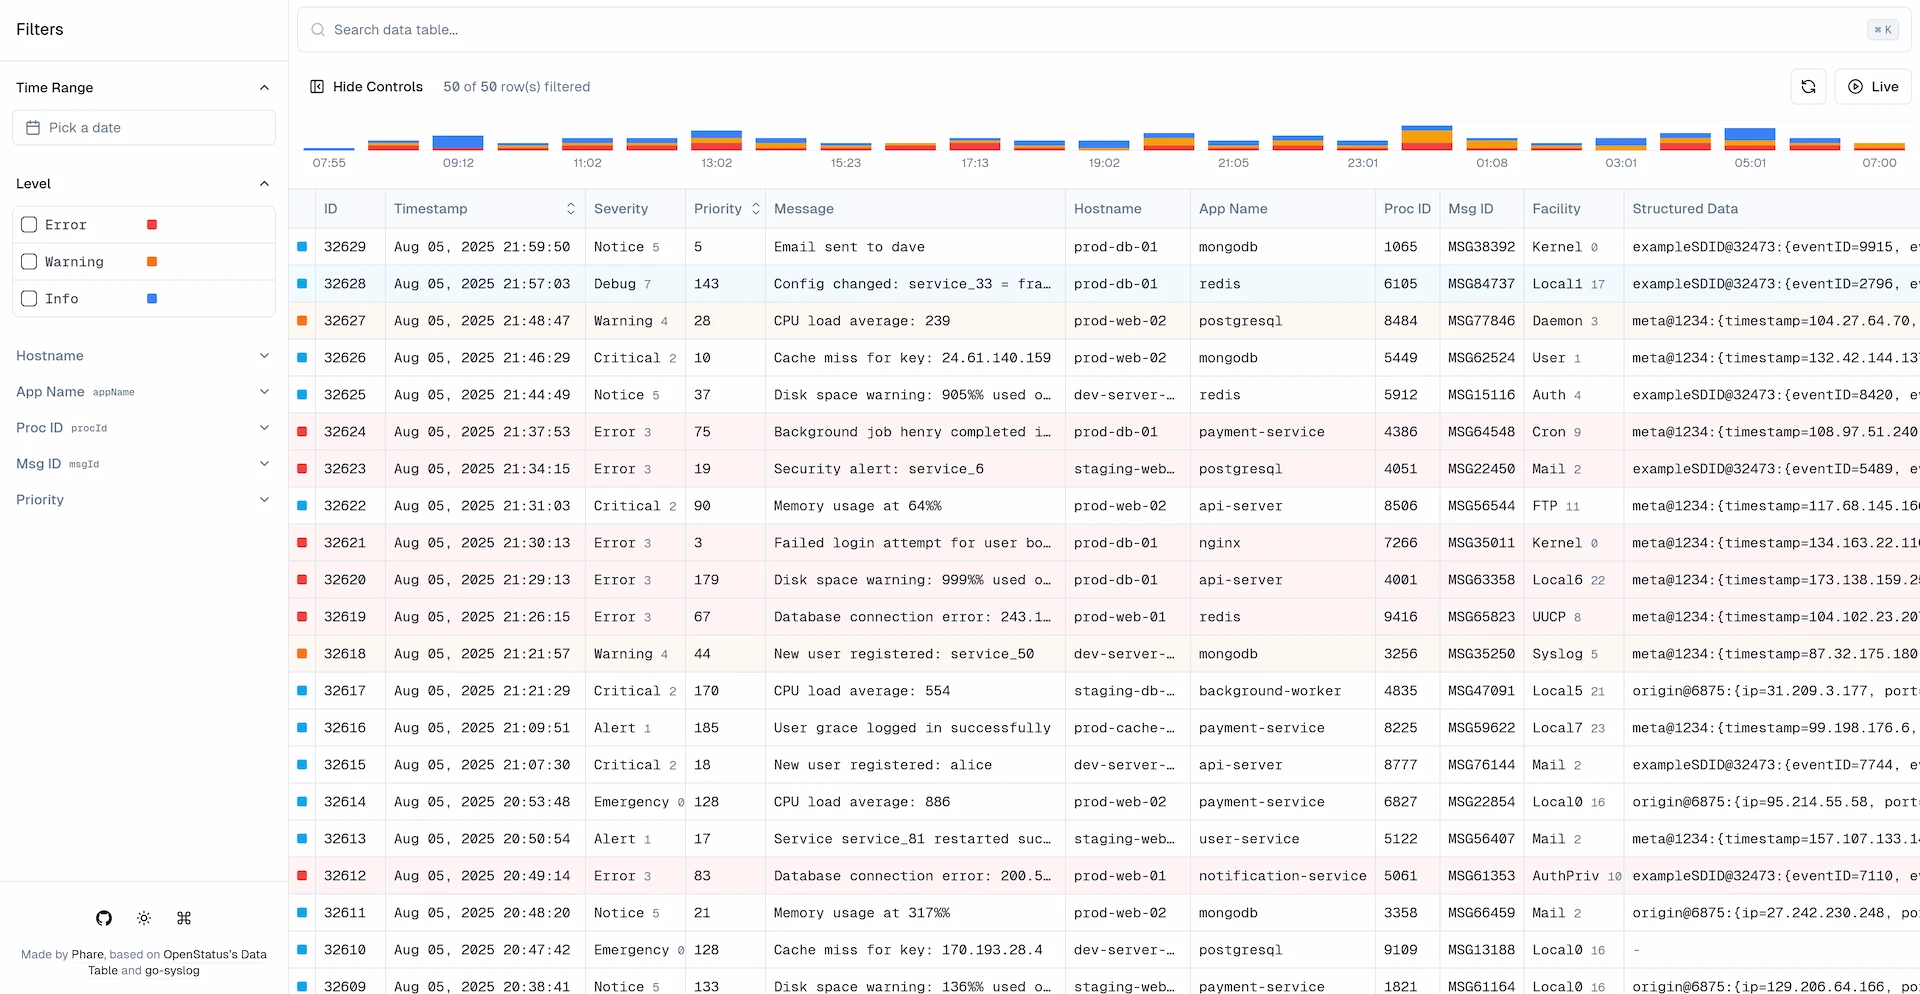
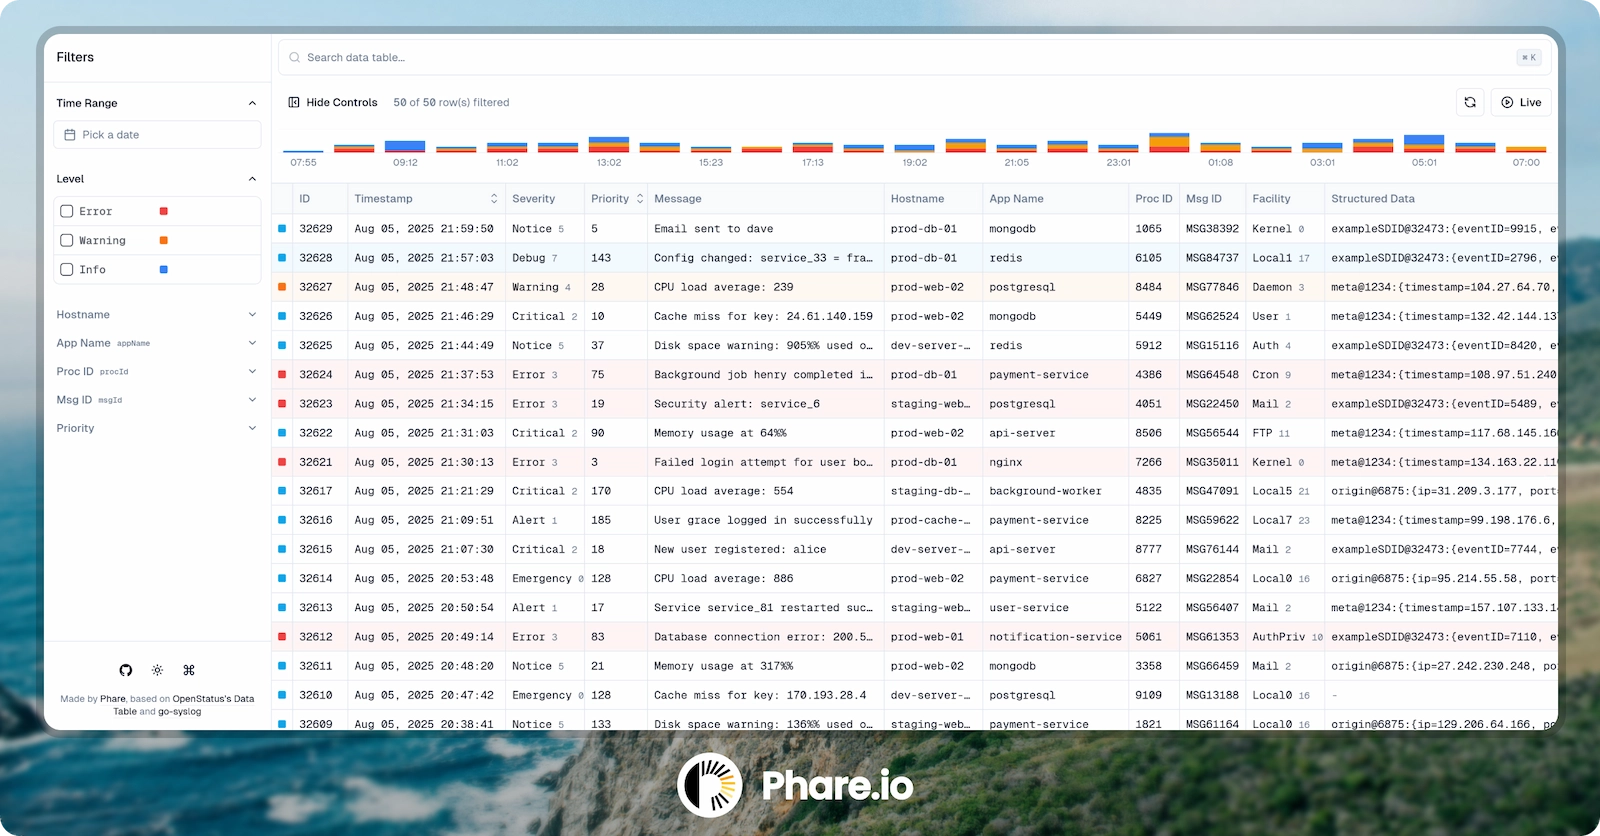
Update screenshot and spacing in README

diff --git a/README.md b/README.md
@@ -12,6 +12,8 @@
     Minimal RFC 5424 syslog collector and viewer. SQLite-backed. Runs as a single, resource-friendly process.
 </div>
 
+<br />
+
 <p align="center"><img src="/sloggo-screenshot.webp" width="800" alt="Sloggo screenshot"></p>
 
 <br />
